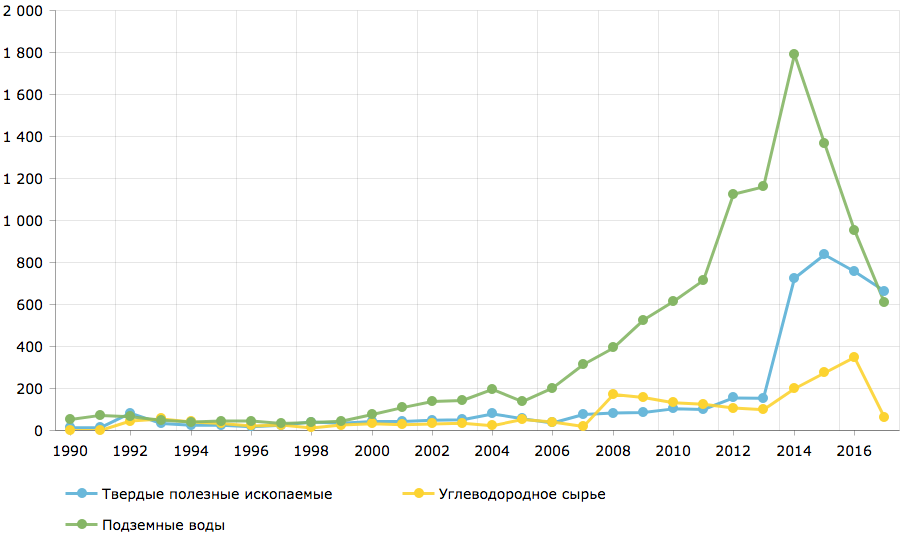
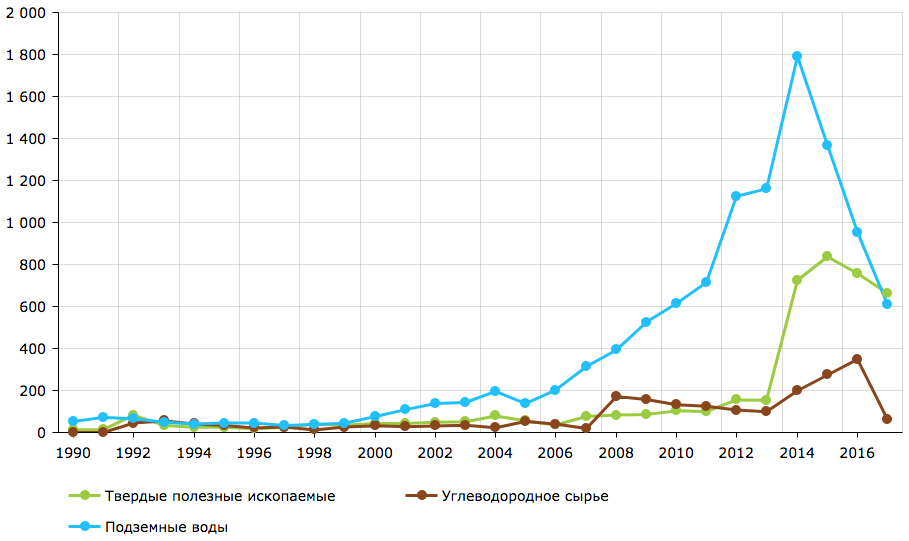
change

diff --git a/index.html b/index.html
@@ -158,10 +158,10 @@
                     <a href="pages/field/silver.html" class="nav_text">Серебро</a>
                 </li>
                 <li>
-                    <a href="pages/field/oil.html" class="nav_text">Нефть и конденсат</a>
+                    <a href="pages/field/coal.html" class="nav_text">Уголь</a>
                 </li>
                 <li>
-                    <a href="pages/field/coal.html" class="nav_text">Уголь</a>
+                    <a href="pages/field/oil.html" class="nav_text">Нефть и конденсат</a>
                 </li>
                 <li>
                     <a href="pages/field/iron.html" class="nav_text">Железные руды</a>
@@ -174,101 +174,7 @@
                 </li>
             </ul>
         </nav>
-        <!-- <section class="content">
-            <div class="row">
-                <h2>Популярная статистика по золоту, всего по России</h2>
-                <div class="row__container1">
-                    <div class="row__container1_item1">
-                        <h3>Количество месторождений</h3>
-                        <p class="main-value">5894</p>
-                        <p class="bottom-value"></p>
-                    </div>
-                    <div class="row__container1_item1">
-                        <h3>Запасы</h3>
-                        <p class="main-value">13817,4</p>
-                        <p class="bottom-value">тонн</p>
-                        <p class="bottom-value">A+B+C
-                            <sub>1</sub>+C
-                            <sub>2</sub>
-                        </p>
-                    </div>
-                    <div class="row__container1_item1">
-                        <h3>Добыча за 2016г.</h3>
-                        <p class="main-value">286,6</p>
-                        <p class="bottom-value">тонн</p>
-                    </div>
-                    <div class="row__container1_item1">
-                        <h3>Цена</h3>
-                        <iframe style="width:265px;border:0;overflow:hidden;background-color:transparent;height:169px" scrolling="no" src="https://fortrader.org/informers/getInformer?st=25&cat=19&mult=0.99&showGetBtn=0&w=265&hideDiff=1&colors=false&items=1"></iframe>
-                    </div>
-                </div>
 
-                <h2>Статистика по запасам</h2>
-
-                <div class="row__container2">
-                    <div class="row__container2_item2">
-                        <h3>Динамика запасов в 1991–2015 гг., %</h3>
-                        <img src="image/au_chart-1.png" onclick="modalOpen()" alt="Динамика запасов золота категорий А+В+С.">
-                    </div>
-                    <div class="row__container2_item2">
-                        <h3>Динамика добычи и прироста запасов в 1991-2015 гг., тонн</h3>
-                        <img src="image/au_chart-2.png" onclick="modalOpen1()" alt="Динамика добычи золота и прироста его запасов категорий А+В+С">
-                    </div>
-                    <div class="row__container2_item2">
-                        <h3>Динамика распределения запасов и ресурсов в 2004-2015 гг., тонн</h3>
-                        <img src="image/au_chart-3.png" onclick="modalOpen3()" alt="Динамика распределения запасов и ресурсов">
-                    </div>
-                    <div class="row__container2_item2">
-                        <h3>Динамика движения запасов в 1993–2015 гг., тонн</h3>
-                        <img src="image/au_chart-4.png" onclick="modalOpen2()" alt="Динамика движения запасов золота в 2006–2015 гг">
-                    </div>
-                </div>
-
-                <h2>Статистика по добыче</h2>
-
-                <div class="row__container2">
-                    <div class="row__container2_item2">
-                        <h3>Распределение добычи по субъектам РФ в 2016г., тонн</h3>
-                        <img src="image/au_chart-5.png" onclick="modalOpen4()" alt="Распределение добычи по субъектам Р.">
-                    </div>
-                    <div class="row__container2_item2">
-                        <h3>Динамика добычи и экспорта в 2002-2015 гг., тонн</h3>
-                        <img src="image/au_chart-6.png" onclick="modalOpen5()" alt="Динамика добычи и экспорта в 2002-2015 гг">
-                    </div>
-                    <div class="row__container2_item2">
-                        <h3>Сведения о распределении  запасов золота по основным типам месторождений в 2016г, кг</h3>
-                        <img src="image/au_chart-7.png" onclick="modalOpen6()" alt="Распределение добычи по субъектам РФ">
-                    </div>
-                    <div class="row__container2_item2">
-                        <h3>Динамика движения запасов в 1993–2015 гг., тонн</h3>
-                        <img class="grey-block" src="image/au_chart-4.png" alt="Динамика движения запасов золота в 2006–2015 гг">
-                    </div>
-                </div>
-
-                <h2>Структура сырьевой базы</h2>
-
-                <div class="row__container2">
-                    <div class="row__container2_item2">
-                        <h3>Распределение добычи по основным типам рудных месторождений в 2016 году, тонн</h3>
-                        <img src="image/au_chart-8.png" onclick="modalOpen7()" alt="Распределение добычи по основным типам рудных месторождений">
-                    </div>
-                    <div class="row__container2_item2">
-                        <h3>Динамика добычи и экспорта в 2002-2015 гг., тонн</h3>
-                        <img class="grey-block" src="image/au_chart-6.png" alt="Динамика добычи и экспорта в 2002-2015 гг">
-                    </div>
-                    <div class="row__container2_item2">
-                        <h3>Сведения о распределении  запасов золота по основным типам месторождений в 2016г, кг</h3>
-                        <img class="grey-block" src="image/au_chart-7.png" alt="Распределение добычи по субъектам РФ">
-                    </div>
-                    <div class="row__container2_item2">
-                        <h3>Динамика движения запасов в 1993–2015 гг., тонн</h3>
-                        <img class="grey-block" src="image/au_chart-4.png" alt="Динамика движения запасов золота в 2006–2015 гг">
-                    </div>
-                </div>
-
-
-            </div>
-        </section> -->
     </main>
 
     <div class="modals" id="modals">

diff --git a/js/charts-field.js b/js/charts-field.js
@@ -4656,7 +4656,6 @@ AmCharts.makeChart("chartdivFG5", {
   categoryField: "category",
   startEffect: "easeInSine",
   fontSize: 14,
-  theme: "light",
   thousandsSeparator: " ",
   categoryAxis: {
     gridPosition: "start",
@@ -4674,6 +4673,7 @@ AmCharts.makeChart("chartdivFG5", {
       lineAlpha: 1,
       lineThickness: 3,
       title: "Твердые полезные ископаемые",
+      lineColor: "#9ACD32",
       valueField: "column-1"
     },
     {
@@ -4683,6 +4683,7 @@ AmCharts.makeChart("chartdivFG5", {
       bulletSize: 10,
       id: "AmGraph-2",
       lineThickness: 3,
+      lineColor: "#8B4513",
       title: "Углеводородное сырье ",
       valueField: "column-2"
     },
@@ -4696,6 +4697,7 @@ AmCharts.makeChart("chartdivFG5", {
       legendAlpha: 0,
       lineThickness: 3,
       title: "Подземные воды ",
+      lineColor: "#00BFFF",
       topRadius: 0,
       valueField: "column-3"
     }
@@ -4915,6 +4917,8 @@ AmCharts.makeChart("chartdivFG6", {
       id: "AmGraph-1",
       lineAlpha: 1,
       lineThickness: 3,
+      lineColor: "#9ACD32",
+
       title: "Твердые полезные ископаемые",
       valueField: "column-1"
     },
@@ -4926,6 +4930,7 @@ AmCharts.makeChart("chartdivFG6", {
       id: "AmGraph-2",
       lineThickness: 3,
       title: "Углеводородное сырье ",
+      lineColor: "#8B4513",
       valueField: "column-2"
     },
     {
@@ -4937,6 +4942,8 @@ AmCharts.makeChart("chartdivFG6", {
       id: "AmGraph-3",
       legendAlpha: 0,
       lineThickness: 3,
+
+      lineColor: "#00BFFF",
       title: "Подземные воды ",
       topRadius: 0,
       valueField: "column-3"

diff --git a/pages/field/general.html b/pages/field/general.html
@@ -161,11 +161,12 @@
                     <a href="silver.html" class="nav_text">Серебро</a>
                 </li>
                 <li>
-                    <a href="oil.html" class="nav_text">Нефть и конденсат</a>
-                </li>
-                <li>
                     <a href="coal.html" class="nav_text">Уголь</a>
                 </li>
+                <li>
+                    <a href="oil.html" class="nav_text">Нефть и конденсат</a>
+                </li>
+
                 <li>
                     <a href="iron.html" class="nav_text">Железные руды</a>
                 </li>
@@ -283,14 +284,14 @@
         <div class="modals__overlay" onclick="modalClose(12)">
         </div>
         <div class="modals__content">
-            <div id="chartdivFG5" style="width: 100%; height: 700px; background-color: #FFFFFF;"></div>
+            <div id="chartdivFG5" style="width: 80%; height: 600px; background-color: #FFFFFF;"></div>
         </div>
     </div>
     <div class="modals" id="modals13">
         <div class="modals__overlay" onclick="modalClose(13)">
         </div>
         <div class="modals__content">
-            <div id="chartdivFG6" style="width: 100%; height: 700px; background-color: #FFFFFF;"></div>
+            <div id="chartdivFG6" style="width: 80%; height: 600px; background-color: #FFFFFF;"></div>
         </div>
     </div>
     <footer class="footer">

diff --git a/pages/business/aluminium.html b/pages/business/aluminium.html
@@ -150,8 +150,7 @@
         <nav class="nav">
             <ul>
                 <li>
-                    <a href="general.html" class="nav_text">Общие сведения
-                    </a>
+                    <a href="general.html" class="nav_text">Общие сведения</a>
                 </li>
                 <li>
                     <a href="gold.html" class="nav_text">Золото</a>
@@ -160,11 +159,12 @@
                     <a href="silver.html" class="nav_text">Серебро</a>
                 </li>
                 <li>
-                    <a href="oil.html" class="nav_text">Нефть и конденсат</a>
-                </li>
-                <li>
                     <a href="coal.html" class="nav_text">Уголь</a>
                 </li>
+                <li>
+                    <a href="oil.html" class="nav_text">Нефть и конденсат</a>
+                </li>
+
                 <li>
                     <a href="iron.html" class="nav_text">Железные руды</a>
                 </li>

diff --git a/pages/business/cooper.html b/pages/business/cooper.html
@@ -160,11 +160,12 @@
                     <a href="silver.html" class="nav_text">Серебро</a>
                 </li>
                 <li>
-                    <a href="oil.html" class="nav_text">Нефть и конденсат</a>
-                </li>
-                <li>
                     <a href="coal.html" class="nav_text">Уголь</a>
                 </li>
+                <li>
+                    <a href="oil.html" class="nav_text">Нефть и конденсат</a>
+                </li>
+
                 <li>
                     <a href="iron.html" class="nav_text">Железные руды</a>
                 </li>

diff --git a/pages/business/general.html b/pages/business/general.html
@@ -160,11 +160,12 @@
                     <a href="silver.html" class="nav_text">Серебро</a>
                 </li>
                 <li>
-                    <a href="oil.html" class="nav_text">Нефть и конденсат</a>
-                </li>
-                <li>
                     <a href="coal.html" class="nav_text">Уголь</a>
                 </li>
+                <li>
+                    <a href="oil.html" class="nav_text">Нефть и конденсат</a>
+                </li>
+
                 <li>
                     <a href="iron.html" class="nav_text">Железные руды</a>
                 </li>

diff --git a/pages/business/gold.html b/pages/business/gold.html
@@ -160,11 +160,12 @@
                     <a href="silver.html" class="nav_text">Серебро</a>
                 </li>
                 <li>
-                    <a href="oil.html" class="nav_text">Нефть и конденсат</a>
-                </li>
-                <li>
                     <a href="coal.html" class="nav_text">Уголь</a>
                 </li>
+                <li>
+                    <a href="oil.html" class="nav_text">Нефть и конденсат</a>
+                </li>
+
                 <li>
                     <a href="iron.html" class="nav_text">Железные руды</a>
                 </li>

diff --git a/pages/field/aluminium.html b/pages/field/aluminium.html
@@ -160,11 +160,12 @@
                     <a href="silver.html" class="nav_text">Серебро</a>
                 </li>
                 <li>
-                    <a href="oil.html" class="nav_text">Нефть и конденсат</a>
-                </li>
-                <li>
                     <a href="coal.html" class="nav_text">Уголь</a>
                 </li>
+                <li>
+                    <a href="oil.html" class="nav_text">Нефть и конденсат</a>
+                </li>
+
                 <li>
                     <a href="iron.html" class="nav_text">Железные руды</a>
                 </li>

diff --git a/pages/field/cooper.html b/pages/field/cooper.html
@@ -160,11 +160,12 @@
                     <a href="silver.html" class="nav_text">Серебро</a>
                 </li>
                 <li>
-                    <a href="oil.html" class="nav_text">Нефть и конденсат</a>
-                </li>
-                <li>
                     <a href="coal.html" class="nav_text">Уголь</a>
                 </li>
+                <li>
+                    <a href="oil.html" class="nav_text">Нефть и конденсат</a>
+                </li>
+
                 <li>
                     <a href="iron.html" class="nav_text">Железные руды</a>
                 </li>

diff --git a/pages/field/gold.html b/pages/field/gold.html
@@ -166,11 +166,12 @@
                     <a href="silver.html" class="nav_text">Серебро</a>
                 </li>
                 <li>
-                    <a href="oil.html" class="nav_text">Нефть и конденсат</a>
-                </li>
-                <li>
                     <a href="coal.html" class="nav_text">Уголь</a>
                 </li>
+                <li>
+                    <a href="oil.html" class="nav_text">Нефть и конденсат</a>
+                </li>
+
                 <li>
                     <a href="iron.html" class="nav_text">Железные руды</a>
                 </li>

diff --git a/pages/license/aluminium.html b/pages/license/aluminium.html
@@ -160,11 +160,12 @@
                     <a href="silver.html" class="nav_text">Серебро</a>
                 </li>
                 <li>
-                    <a href="oil.html" class="nav_text">Нефть и конденсат</a>
-                </li>
-                <li>
                     <a href="coal.html" class="nav_text">Уголь</a>
                 </li>
+                <li>
+                    <a href="oil.html" class="nav_text">Нефть и конденсат</a>
+                </li>
+
                 <li>
                     <a href="iron.html" class="nav_text">Железные руды</a>
                 </li>

diff --git a/pages/license/cooper.html b/pages/license/cooper.html
@@ -160,11 +160,12 @@
                     <a href="silver.html" class="nav_text">Серебро</a>
                 </li>
                 <li>
-                    <a href="oil.html" class="nav_text">Нефть и конденсат</a>
-                </li>
-                <li>
                     <a href="coal.html" class="nav_text">Уголь</a>
                 </li>
+                <li>
+                    <a href="oil.html" class="nav_text">Нефть и конденсат</a>
+                </li>
+
                 <li>
                     <a href="iron.html" class="nav_text">Железные руды</a>
                 </li>
